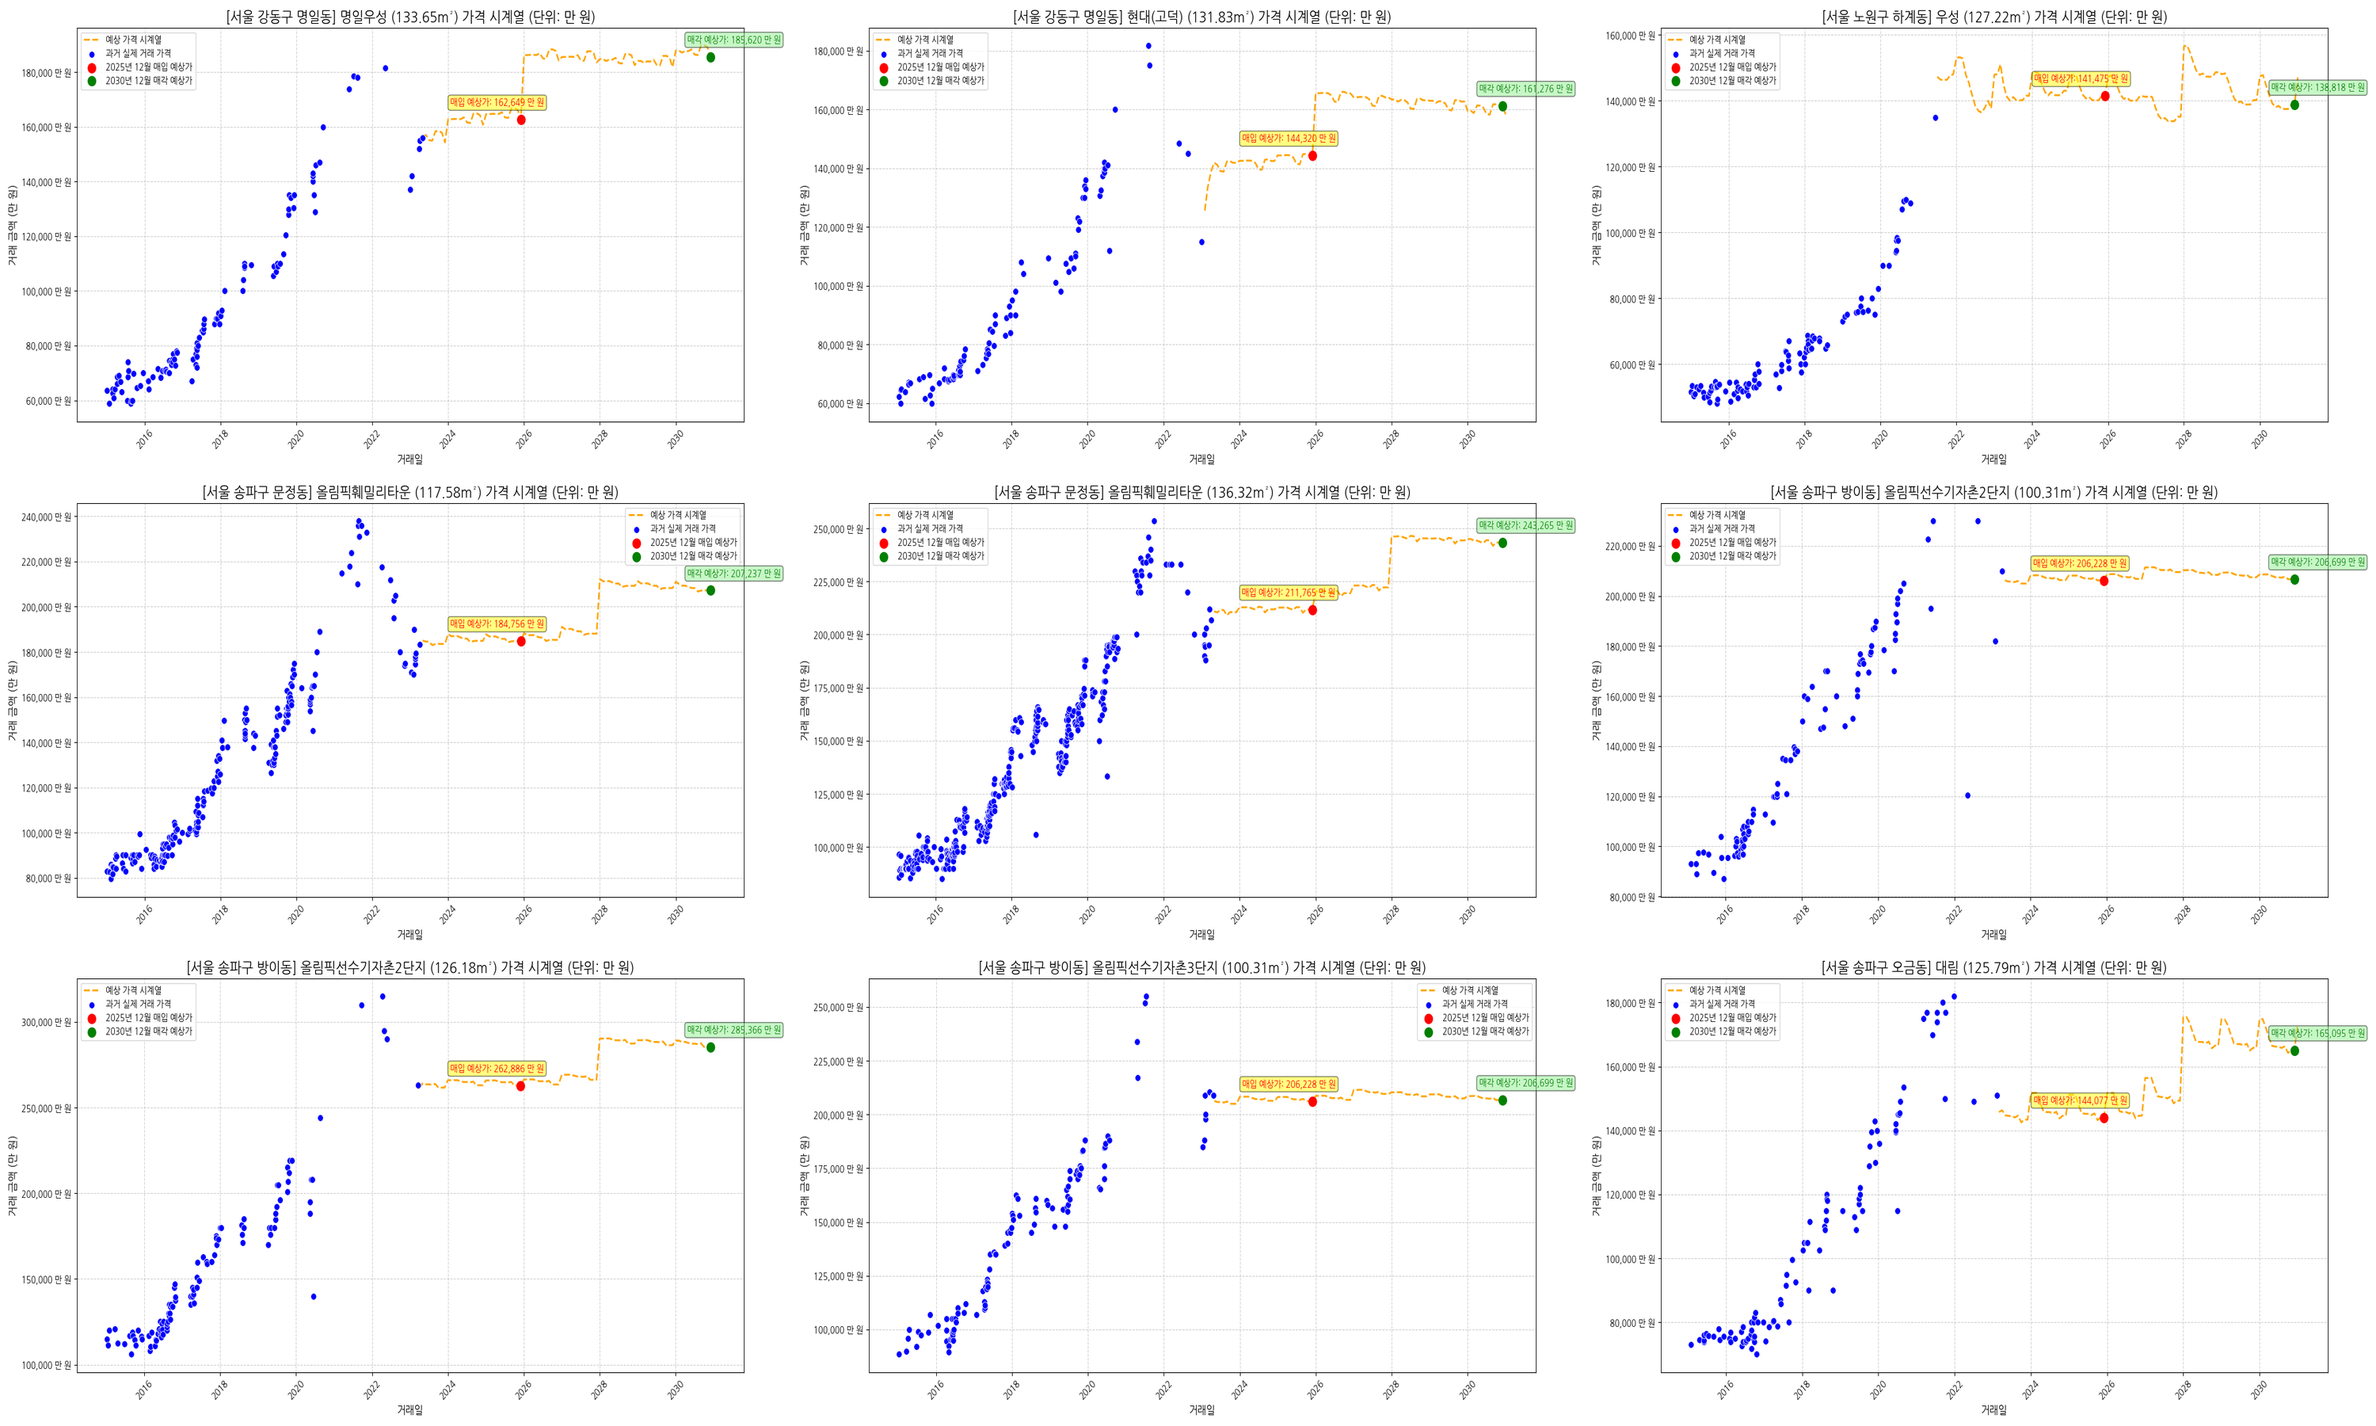
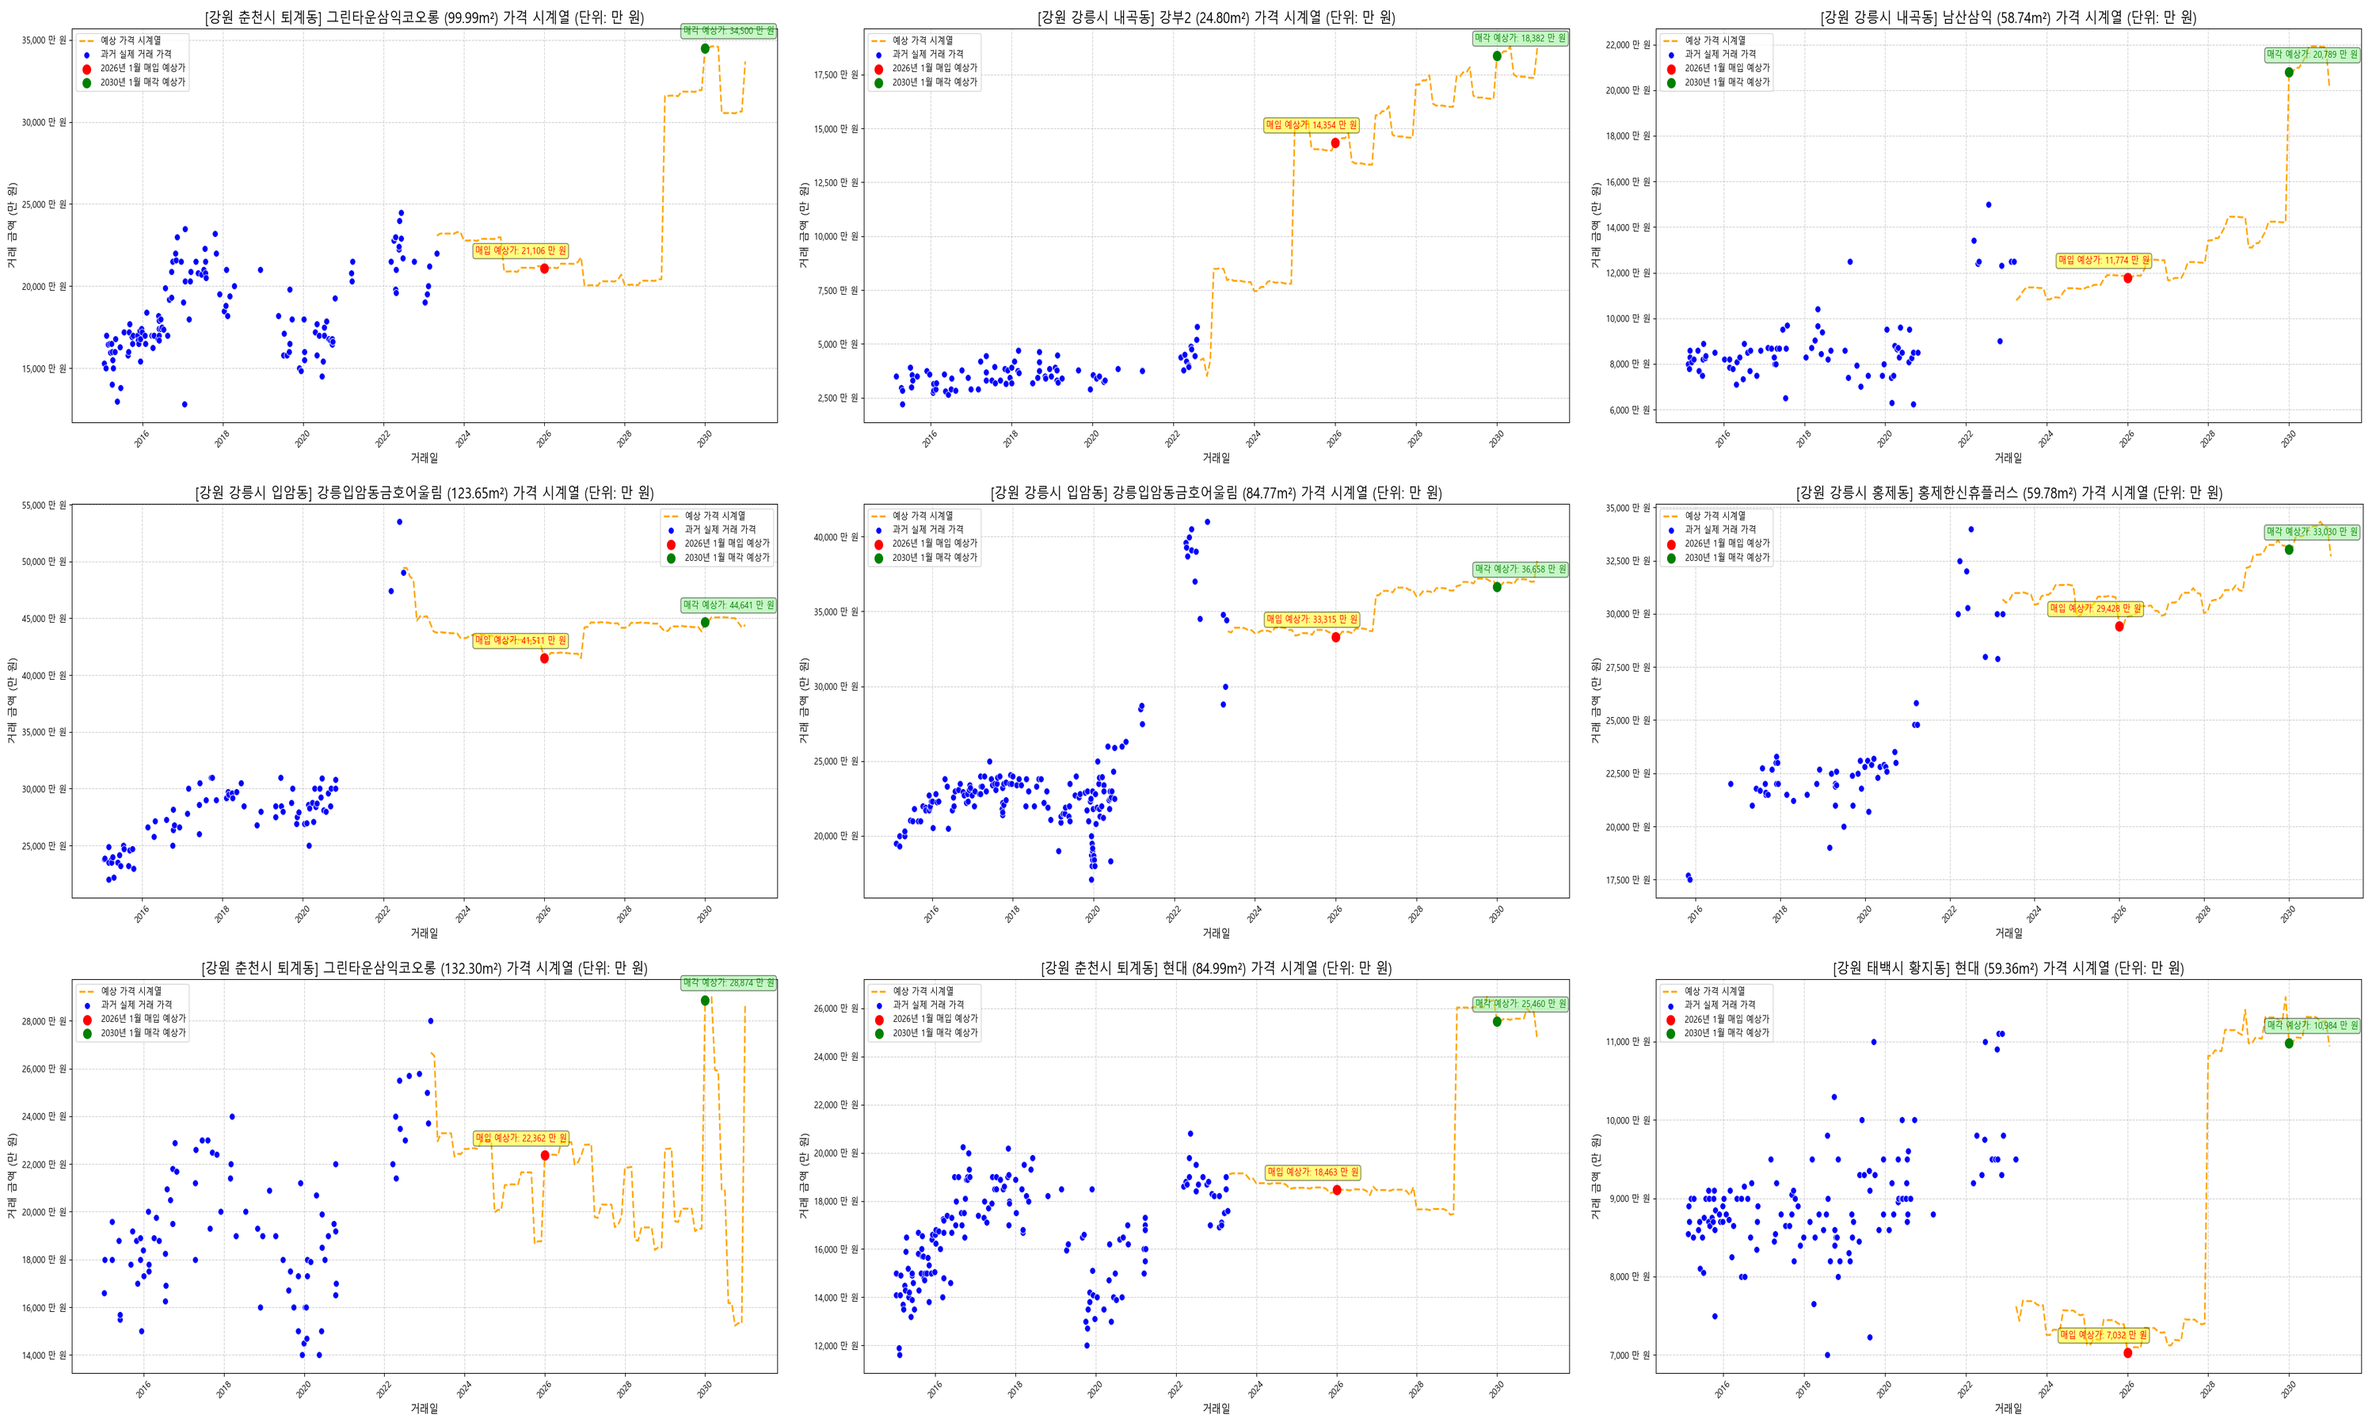
update predict code

diff --git a/APTDealData_Train_Predict.py b/APTDealData_Train_Predict.py
@@ -21,7 +21,7 @@ PRELOAD_FILE_PATH = os.path.join(TRAINED_DATA_DIR, 'preload_xgb_data.csv')
 ENCODERS_FILE_PATH = os.path.join(TRAINED_DATA_DIR, 'label_encoders.joblib')
 PLOT_OUTPUT_DIR = 'results'  # 그래프 및 추천 결과 저장 폴더
 
-SHOULD_RETRAIN = True
+SHOULD_RETRAIN = False
 MIN_TRANSACTION_COUNT = 100  # 최소 거래 횟수 필터링 기준
 cat_features = ['시도명', '시군구명', '법정동', '아파트']
 
@@ -213,29 +213,29 @@ def plot_apartment_timeseries(unique_id, original_df, reco_df, model, base_date,
     plot_past_df = past_df[['거래일', '거래금액']].copy()
     plot_past_df['거래일'] = pd.to_datetime(plot_past_df['거래일'])
 
-    marker_2025 = future_df[future_df['거래일'] == '2025-12-01']
-    marker_2030 = future_df[future_df['거래일'] == '2030-12-01']
+    marker_buy = future_df[future_df['거래일'] == '2026-01-01']
+    marker_sell = future_df[future_df['거래일'] == '2030-01-01']
 
     plt.figure(figsize=(14, 7))
     sns.lineplot(x='거래일', y='거래금액', data=future_df, label='예상 가격 시계열', color='orange', linestyle='--', linewidth=2)
     sns.scatterplot(x='거래일', y='거래금액', data=plot_past_df, label='과거 실제 거래 가격', color='blue', s=50, zorder=5)
 
-    if not marker_2025.empty:
-        m25 = marker_2025.iloc[0]
-        plt.scatter(m25['거래일'], m25['거래금액'], color='red', s=100, zorder=10, label='2025년 12월 매입 예상가')
+    if not marker_buy.empty:
+        mbuy = marker_buy.iloc[0]
+        plt.scatter(mbuy['거래일'], mbuy['거래금액'], color='red', s=100, zorder=10, label='2026년 1월 매입 예상가')
         plt.annotate(
-            f'매입 예상가: {format_manwon(m25["거래금액"])}',
-            (m25['거래일'], m25['거래금액']),
+            f'매입 예상가: {format_manwon(mbuy["거래금액"])}',
+            (mbuy['거래일'], mbuy['거래금액']),
             textcoords="offset points",
             xytext=(-30, 15), ha='center', color='red', fontsize=10,
             bbox=dict(boxstyle="round,pad=0.3", fc="yellow", alpha=0.5)
         )
-    if not marker_2030.empty:
-        m30 = marker_2030.iloc[0]
-        plt.scatter(m30['거래일'], m30['거래금액'], color='green', s=100, zorder=10, label='2030년 12월 매각 예상가')
+    if not marker_sell.empty:
+        msell = marker_sell.iloc[0]
+        plt.scatter(msell['거래일'], msell['거래금액'], color='green', s=100, zorder=10, label='2030년 1월 매각 예상가')
         plt.annotate(
-            f'매각 예상가: {format_manwon(m30["거래금액"])}',
-            (m30['거래일'], m30['거래금액']),
+            f'매각 예상가: {format_manwon(msell["거래금액"])}',
+            (msell['거래일'], msell['거래금액']),
             textcoords="offset points",
             xytext=(30, 15), ha='center', color='green', fontsize=10,
             bbox=dict(boxstyle="round,pad=0.3", fc="lightgreen", alpha=0.5)
@@ -324,11 +324,87 @@ def combine_images_to_grid(input_dir, output_filename, except_filename, grid_siz
     resized_image.save(output_path, dpi=(150, 150))
     print(f"--- Successfully combined and resized {num_images_to_combine} images into '{output_path}' ---")
 
-    # 병합에 사용된 개별 파일 삭제
-    print("Deleting temporary individual plot files...")
-    for filename in image_files[:num_images_to_combine]:
-        os.remove(os.path.join(input_dir, filename))
-    print("Temporary files deleted.")
+    # # 병합에 사용된 개별 파일 삭제
+    # print("Deleting temporary individual plot files...")
+    # for filename in image_files[:num_images_to_combine]:
+    #     os.remove(os.path.join(input_dir, filename))
+    # print("Temporary files deleted.")
+
+
+def predict_region(df, selected_sido, xgb_model, features, cat_features, label_encoders, base_deal_date):
+
+    encoded_sido = label_encoders['시도명'].transform([selected_sido])[0]
+
+    region_df = df[df['시도명'] == encoded_sido].copy()
+
+    all_unique_apts = region_df.drop_duplicates(subset=['UniqueID']).reset_index(drop=True)
+    total = len(all_unique_apts)
+    print(f"\n[{selected_sido}] 지역의 {total}개 고유 아파트에 대해 예측 데이터 생성 시작.")
+
+    predict_date_buy = pd.to_datetime('2026-01-01')
+    predict_date_sell = pd.to_datetime('2030-01-01')
+
+    records = []
+
+    for idx, apt in all_unique_apts.iterrows():
+        apt_id = apt['UniqueID']
+        past_df = region_df[region_df['UniqueID'] == apt_id].copy()
+        if past_df.empty:
+            continue
+
+        # 진행상황 표시
+        print(f"\r[ {idx + 1} / {total} ] 처리 중...", end='')
+
+        base_row = past_df.sort_values(by='거래일', ascending=True).iloc[-1].copy()
+
+        encoded_values = {
+            'UniqueID': apt_id,
+            '시도명': base_row['시도명'],
+            '시군구명': base_row['시군구명'],
+            '법정동': base_row['법정동'],
+            '아파트': base_row['아파트'],
+            '전용면적': base_row['전용면적'],
+            '건축년도': base_row['건축년도'],
+            '기준금리': base_row['기준금리'],
+            '가계대출(만원)': base_row['가계대출(만원)'],
+            '인구수': base_row['인구수'],
+            '실업률': base_row['실업률'],
+            'CPI_총지수': base_row['CPI_총지수'],
+            'CPI_전년동기': base_row['CPI_전년동기'],
+            '월개인소득(만원)': base_row['월개인소득(만원)'],
+        }
+
+        def make_feature_row(date):
+            row = encoded_values.copy()
+            row['거래_년'] = date.year
+            row['거래_월'] = date.month
+            row['건축_경과년수'] = date.year - base_row['건축년도']
+            row['최근_거래일_점수'] = (date - base_deal_date).days
+            return row
+
+        buy_X = pd.DataFrame([make_feature_row(predict_date_buy)])[features]
+        sell_X = pd.DataFrame([make_feature_row(predict_date_sell)])[features]
+
+        buy_price = int(xgb_model.predict(buy_X)[0])
+        sell_price = int(xgb_model.predict(sell_X)[0])
+
+        record = encoded_values.copy()
+        record['매입예상가_2026_01'] = buy_price
+        record['매각예상가_2030_01'] = sell_price
+        record['예상_최대이익'] = sell_price - buy_price
+        records.append(record)
+
+    print("\n모델 예측 완료. 결과 DataFrame 구성 중...")
+
+    reco_df = pd.DataFrame(records)
+
+    for col in cat_features:
+        if col in reco_df.columns:
+            reco_df[col] = label_encoders[col].inverse_transform(reco_df[col].astype(int))
+
+    reco_df = reco_df.sort_values(by='예상_최대이익', ascending=False).reset_index(drop=True)
+    print(f"[{selected_sido}] 지역 예측 완료. 총 {len(reco_df)}개 결과 생성.")
+    return reco_df
 
 
 if __name__ == "__main__":
@@ -445,52 +521,13 @@ if __name__ == "__main__":
         except Exception as e:
             print(f"error: {e}")
 
-    # 전국 예측 데이터 생성
-    all_unique_apts = df.drop_duplicates(
-        subset=['UniqueID']
-    ).reset_index(drop=True).copy()
-    print(f"\n전국 {len(all_unique_apts)}개 고유 아파트에 대해 예측 데이터 생성 시작.")
-
-    predict_date_2025 = pd.to_datetime('2025-12-01')
-    predict_date_2030 = pd.to_datetime('2030-12-01')
-
-    base_cols = ['UniqueID', '시도명', '시군구명', '법정동', '아파트', '전용면적', '건축년도', '기준금리', '가계대출(만원)', '인구수', '실업률', 'CPI_총지수', 'CPI_전년동기', '월개인소득(만원)']
-    buy_X = all_unique_apts[base_cols].copy()
-    buy_X['거래_년'] = predict_date_2025.year
-    buy_X['거래_월'] = predict_date_2025.month
-    buy_X['건축_경과년수'] = buy_X['거래_년'] - buy_X['건축년도']
-    buy_X['최근_거래일_점수'] = (predict_date_2025 - base_deal_date).days
-
-    sell_X = all_unique_apts[base_cols].copy()
-    sell_X['거래_년'] = predict_date_2030.year
-    sell_X['거래_월'] = predict_date_2030.month
-    sell_X['건축_경과년수'] = sell_X['거래_년'] - sell_X['건축년도']
-    sell_X['최근_거래일_점수'] = (predict_date_2030 - base_deal_date).days
-
-    buy_X_model = buy_X[features]
-    sell_X_model = sell_X[features]
-
-    print("\n모델 예측 수행 시작 (전국)...")
-    buy_prices_2025 = xgb_model.predict(buy_X_model)
-    sell_prices_2030 = xgb_model.predict(sell_X_model)
-    print("모델 예측 완료.")
-
-    reco_df = all_unique_apts[['UniqueID', '시도명', '시군구명', '법정동', '아파트', '전용면적', '건축년도', '기준금리', '가계대출(만원)', '인구수', '실업률', 'CPI_총지수', 'CPI_전년동기', '월개인소득(만원)']].copy()
-    reco_df['매입예상가_2025_12'] = buy_prices_2025.astype(int)
-    reco_df['매각예상가_2030_12'] = sell_prices_2030.astype(int)
-    reco_df['예상_최대이익'] = reco_df['매각예상가_2030_12'] - reco_df['매입예상가_2025_12']
-
-    for col in cat_features:
-        reco_df[col] = label_encoders[col].inverse_transform(reco_df[col].astype(int))
-
-    reco_df = reco_df.sort_values(by='예상_최대이익', ascending=False).reset_index(drop=True)
-
-    sido_list = sorted(reco_df['시도명'].unique())
+    decoded_sido = pd.Series(label_encoders['시도명'].inverse_transform(df['시도명'].astype(int)))
+    sido_list = sorted(decoded_sido.unique())
     sido_map = {i + 1: sido for i, sido in enumerate(sido_list)}
 
     while True:
         print("\n" + "=" * 50)
-        print("지역 선택: 2025년 12월 매입 기준 2030년 12월 매각시 가장 최대이익을 예측할 지역을 선택해주세요.")
+        print("지역 선택: 2026년 1월 매입 기준 2030년 1월 매각시 가장 최대이익을 예측할 지역을 선택해주세요.")
         print("0: 프로그램 종료")
         print("=" * 50)
         for num, sido in sido_map.items():
@@ -516,6 +553,13 @@ if __name__ == "__main__":
             continue
 
         selected_sido = sido_map[selected_num]
+
+        reco_df = predict_region(df, selected_sido, xgb_model, features, cat_features, label_encoders, base_deal_date)
+
+        if reco_df.empty:
+            print(f"\n경고: {selected_sido} 지역에 대한 예측 결과가 없습니다.")
+            continue
+
         filtered_df = reco_df[reco_df['시도명'] == selected_sido].copy()
 
         if filtered_df.empty:
@@ -525,25 +569,26 @@ if __name__ == "__main__":
         top_10_apts = filtered_df.head(10).copy()
         best_apt = top_10_apts.iloc[0]
 
+
         output_text = "\n" + "=" * 70 + "\n"
         output_text += f"{selected_sido} 최대 이익 아파트 추천 결과 (단위: 만 원)\n"
         output_text += "=" * 70 + "\n"
         output_text += f"**최적 아파트:** {best_apt['아파트']} ({best_apt['시군구명']} {best_apt['법정동']})\n"
         output_text += f"**전용면적:** {best_apt['전용면적']:.2f} m²\n"
-        output_text += f"**2025년 12월 예상 매입가:** {format_manwon(best_apt['매입예상가_2025_12'])}\n"
-        output_text += f"**2030년 12월 예상 매각가:** {format_manwon(best_apt['매각예상가_2030_12'])}\n"
+        output_text += f"**2025년 12월 예상 매입가:** {format_manwon(best_apt['매입예상가_2026_01'])}\n"
+        output_text += f"**2030년 12월 예상 매각가:** {format_manwon(best_apt['매각예상가_2030_01'])}\n"
         output_text += f"**예상 최대 이익 (5년):** {format_manwon(best_apt['예상_최대이익'])}\n"
         output_text += "=" * 70 + "\n"
 
         output_text += f"\n상위 10개 추천 아파트 목록 ({selected_sido}, 이익 만 원 기준)\n"
-        display_cols = ['시도명', '시군구명', '법정동', '아파트', '전용면적', '예상_최대이익', '매입예상가_2025_12', '매각예상가_2030_12']
+        display_cols = ['시도명', '시군구명', '법정동', '아파트', '전용면적', '예상_최대이익', '매입예상가_2026_01', '매각예상가_2030_01']
 
         top_10_string = top_10_apts[display_cols].to_string(
             index=False,
             formatters={
                 '예상_최대이익': '{:,.0f}'.format,
-                '매입예상가_2025_12': '{:,.0f}'.format,
-                '매각예상가_2030_12': '{:,.0f}'.format,
+                '매입예상가_2026_01': '{:,.0f}'.format,
+                '매각예상가_2030_01': '{:,.0f}'.format,
                 '전용면적': '{:.2f}'.format,
             }
         )
@@ -561,8 +606,6 @@ if __name__ == "__main__":
             print(f"추천 결과가 '{recommendation_file_path}'에 저장되었습니다.")
         except Exception as e:
             print(f"error: {e}")
-
-        # 7.4. 상위 10개 아파트 시계열 시각화 함수 호출 및 병합 로직
 
         # 1. 최대 이익 아파트 (top 1) 개별 저장
         print(f"\n최적 아파트 ({best_apt['아파트']}) 시계열 차트 개별 저장...")
@@ -607,5 +650,4 @@ if __name__ == "__main__":
 
         print("#" * 70)
 
-        print("진행하려면 아무키나 입력하세요")
-        input()
+        input("진행하려면 아무키나 입력하세요")

diff --git a/APTDealData_PreProcessing.py b/APTDealData_PreProcessing.py
@@ -576,10 +576,6 @@ def load_apartment_deal_and_location(data_dir: str):
     return final_df
 
 
-# ======================================================================
-# 8) 전체 머지 파이프라인
-# ======================================================================
-
 def build_apt_price_with_macro():
     # 매크로 데이터 로드
     rate_df = load_base_rate(DATA_DIR)
